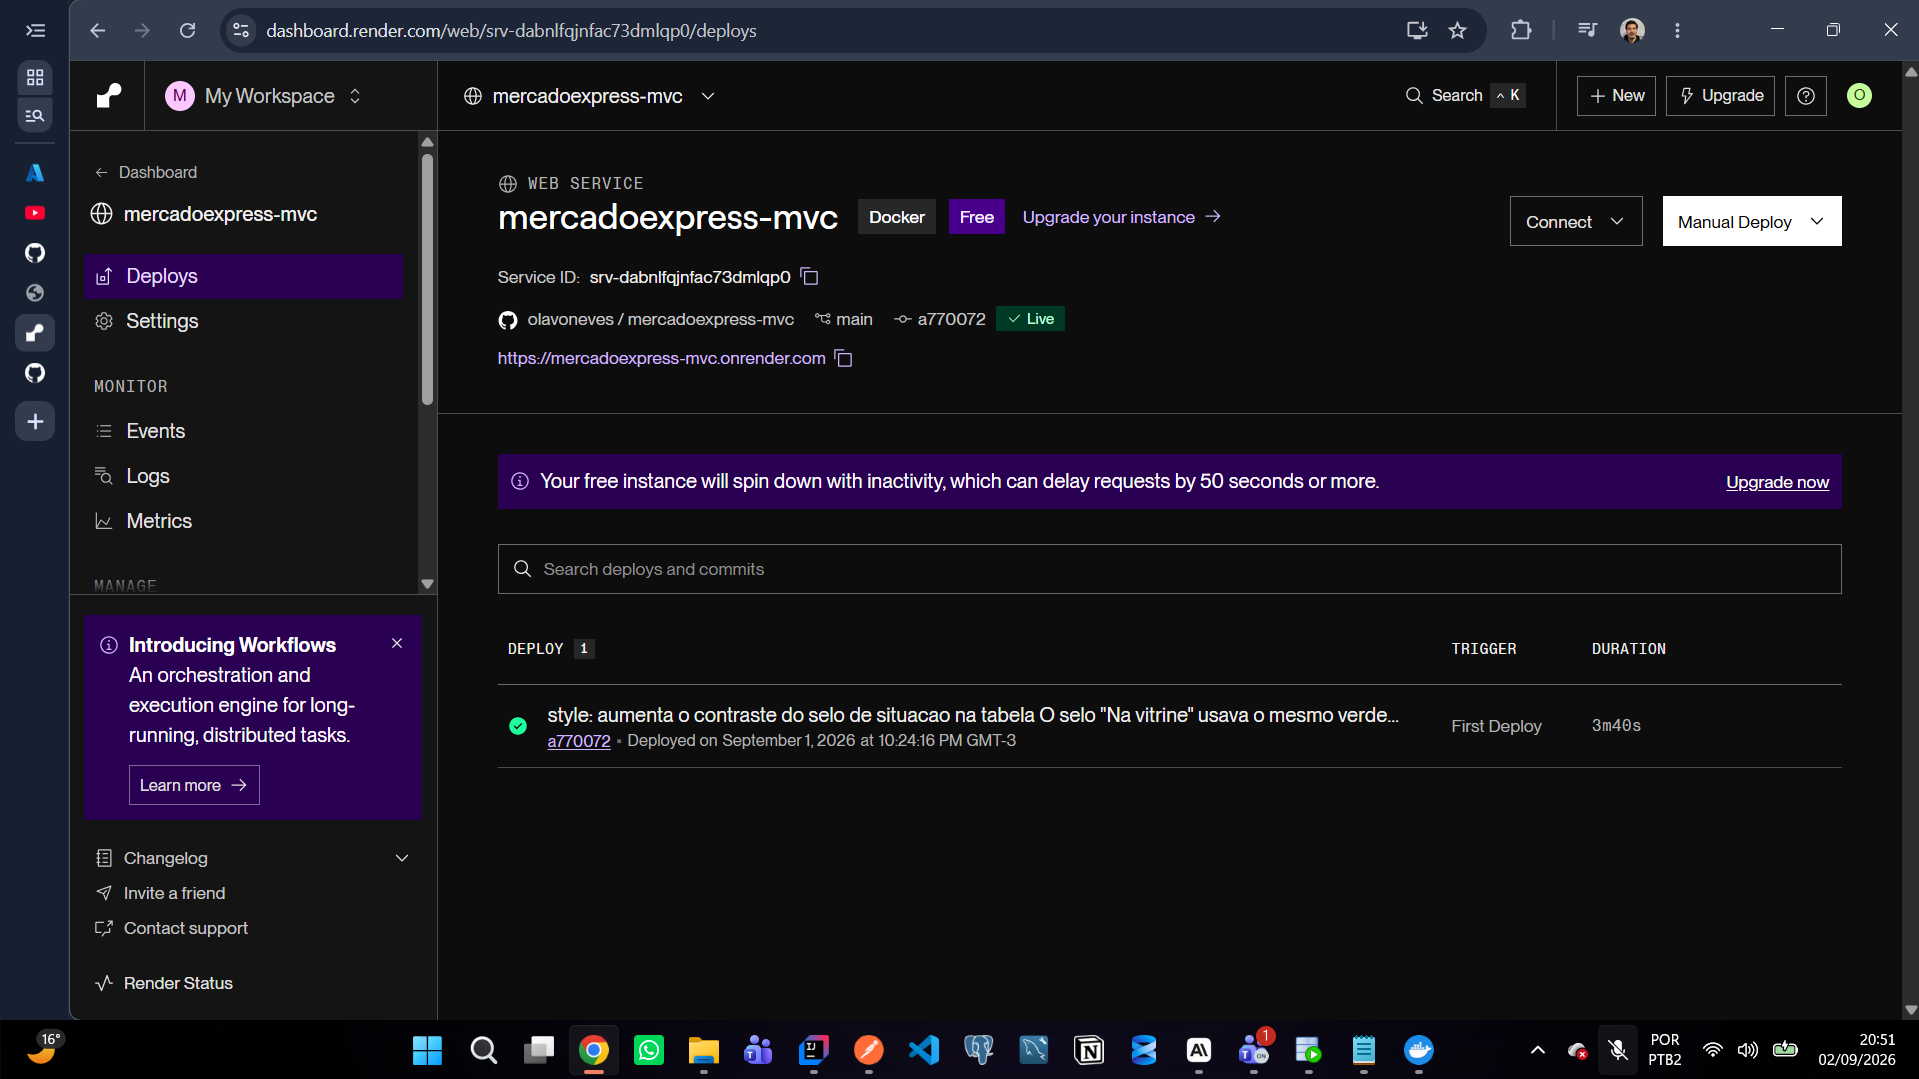
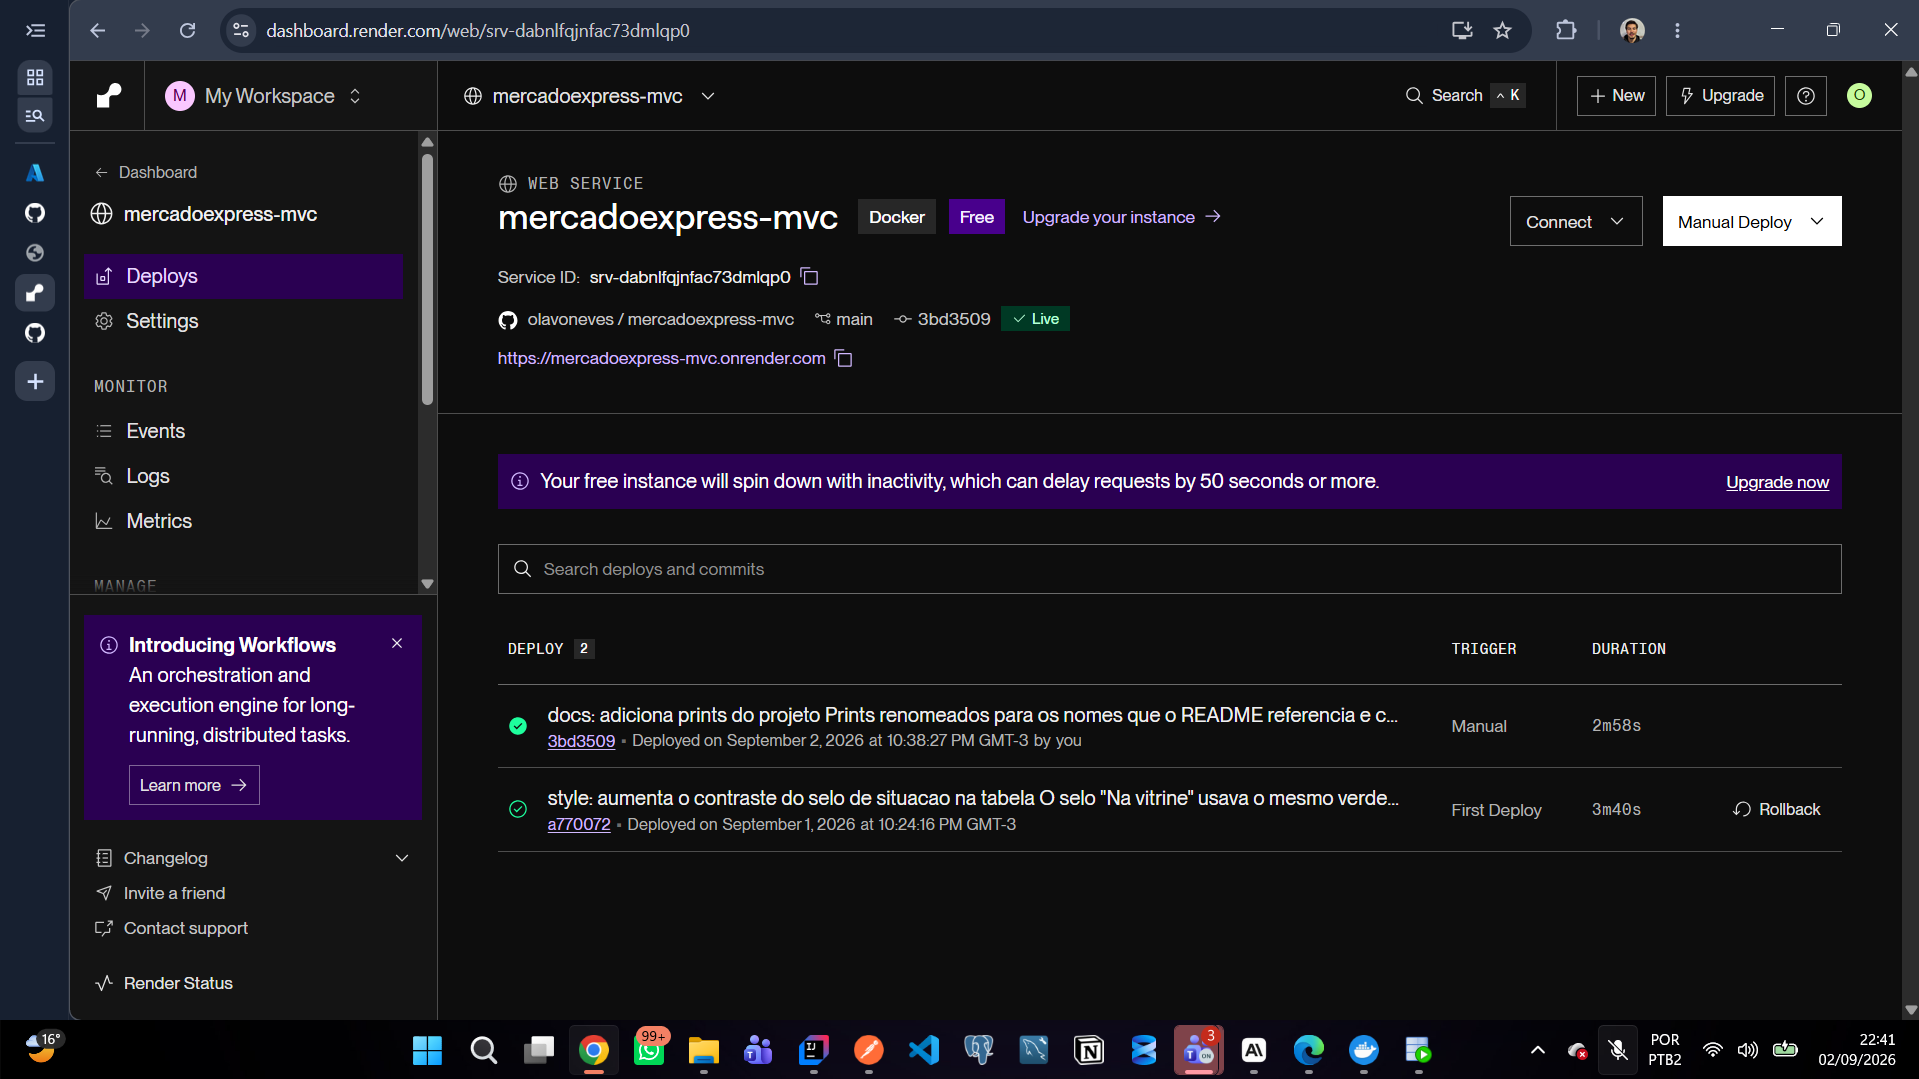
docs: completa os prints com a validacao e o deploy atualizado
Entra o print da validacao de formulario (docs/11-validacao-erro.png), que
era o unico pendente: formulario salvo em branco, com o resumo de erros no
topo e a mensagem sob cada campo invalido.

O print do deploy passa a mostrar o painel do Render depois da publicacao do
build atual, com os dois deploys no historico e o servico Live. Com isso a
producao deixou de cair no loop de redirecionamento: a vitrine responde 200 e
lista os produtos vindos do Oracle.

Todas as 15 imagens de docs/ estao referenciadas no README, com explicacao ao
lado. Resta apenas o link do video.

Claude-Session: https://claude.ai/code/session_01Vm5ogFB3V2o6YBzFpuhSHj

diff --git a/README.md b/README.md
@@ -629,8 +629,9 @@ com o host público e o esquema `https` corretos.
 
 *Serviço `mercadoexpress-mvc` no painel do Render: runtime **Docker**, plano Free,
 ligado ao repositório `olavoneves/mercadoexpress-mvc` na branch `main`, com status
-**Live** e a URL pública. O próprio painel avisa que a instância gratuita hiberna e pode
-atrasar a primeira requisição em 50 segundos ou mais.*
+**Live** e a URL pública. O histórico mostra os dois deploys já publicados, o mais recente
+apontando para o commit no topo da `main`. O próprio painel avisa que a instância gratuita
+hiberna e pode atrasar a primeira requisição em 50 segundos ou mais.*
 
 ---
 
